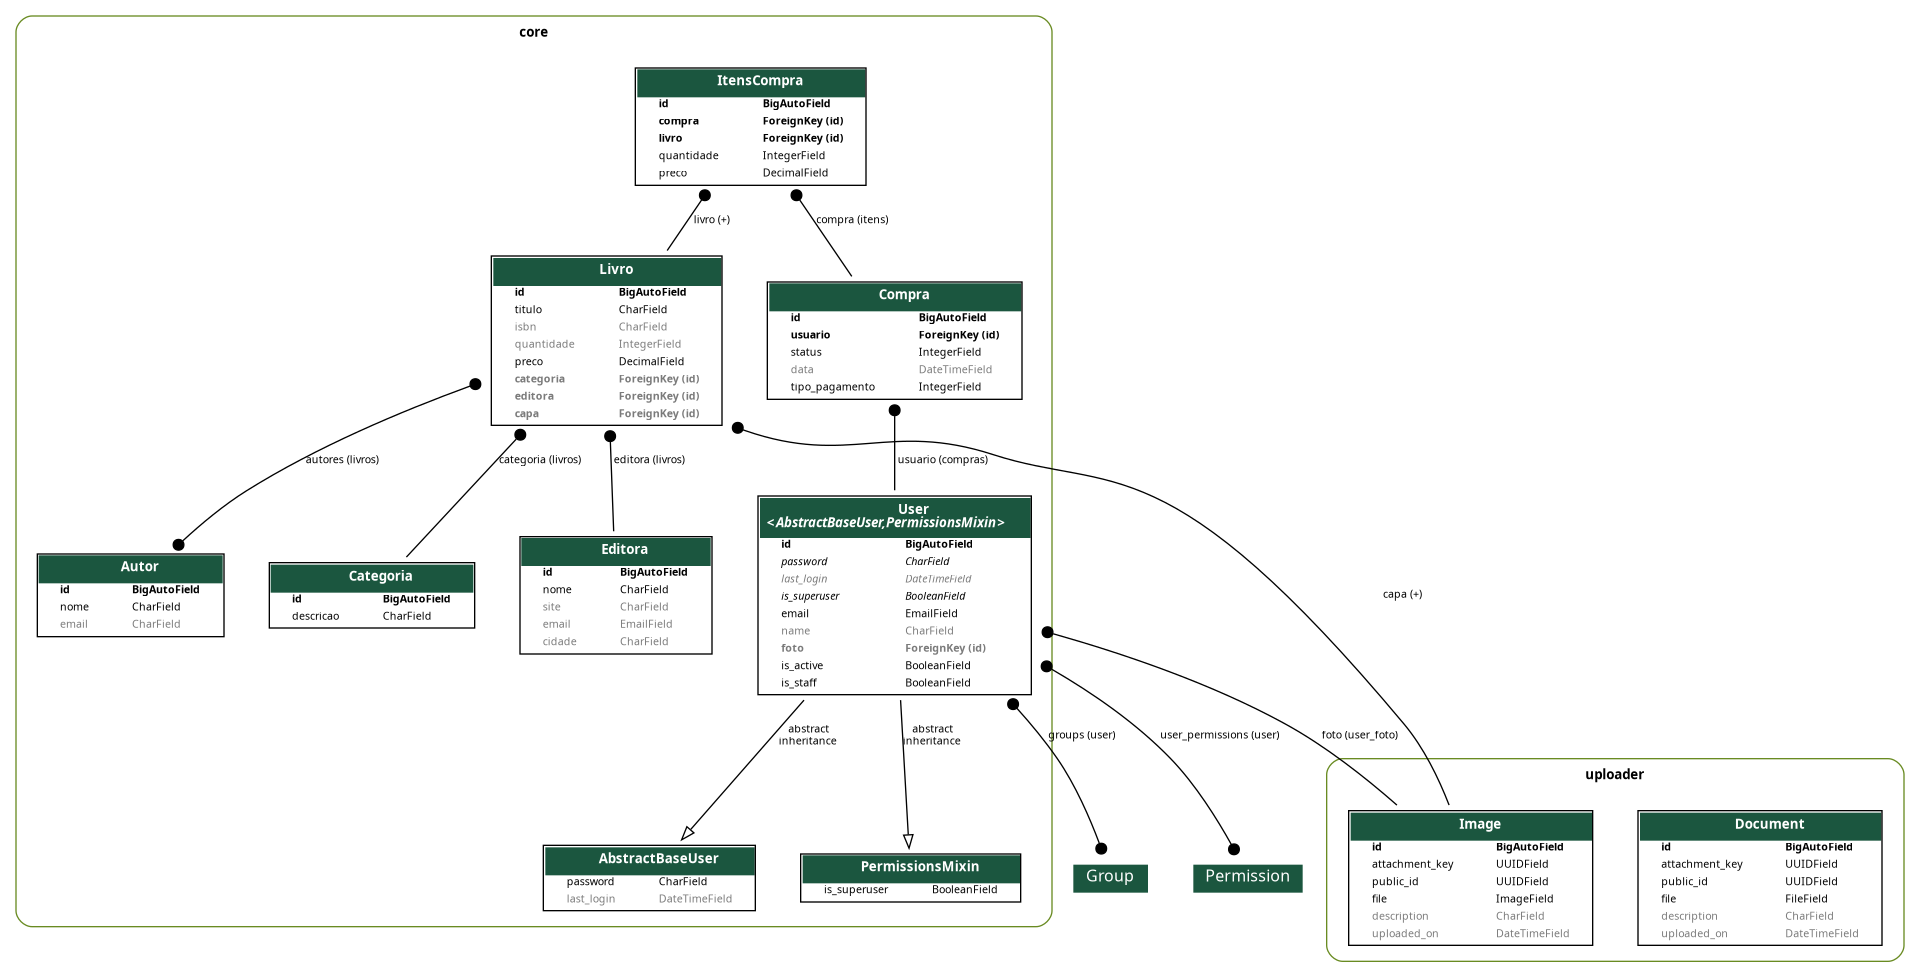
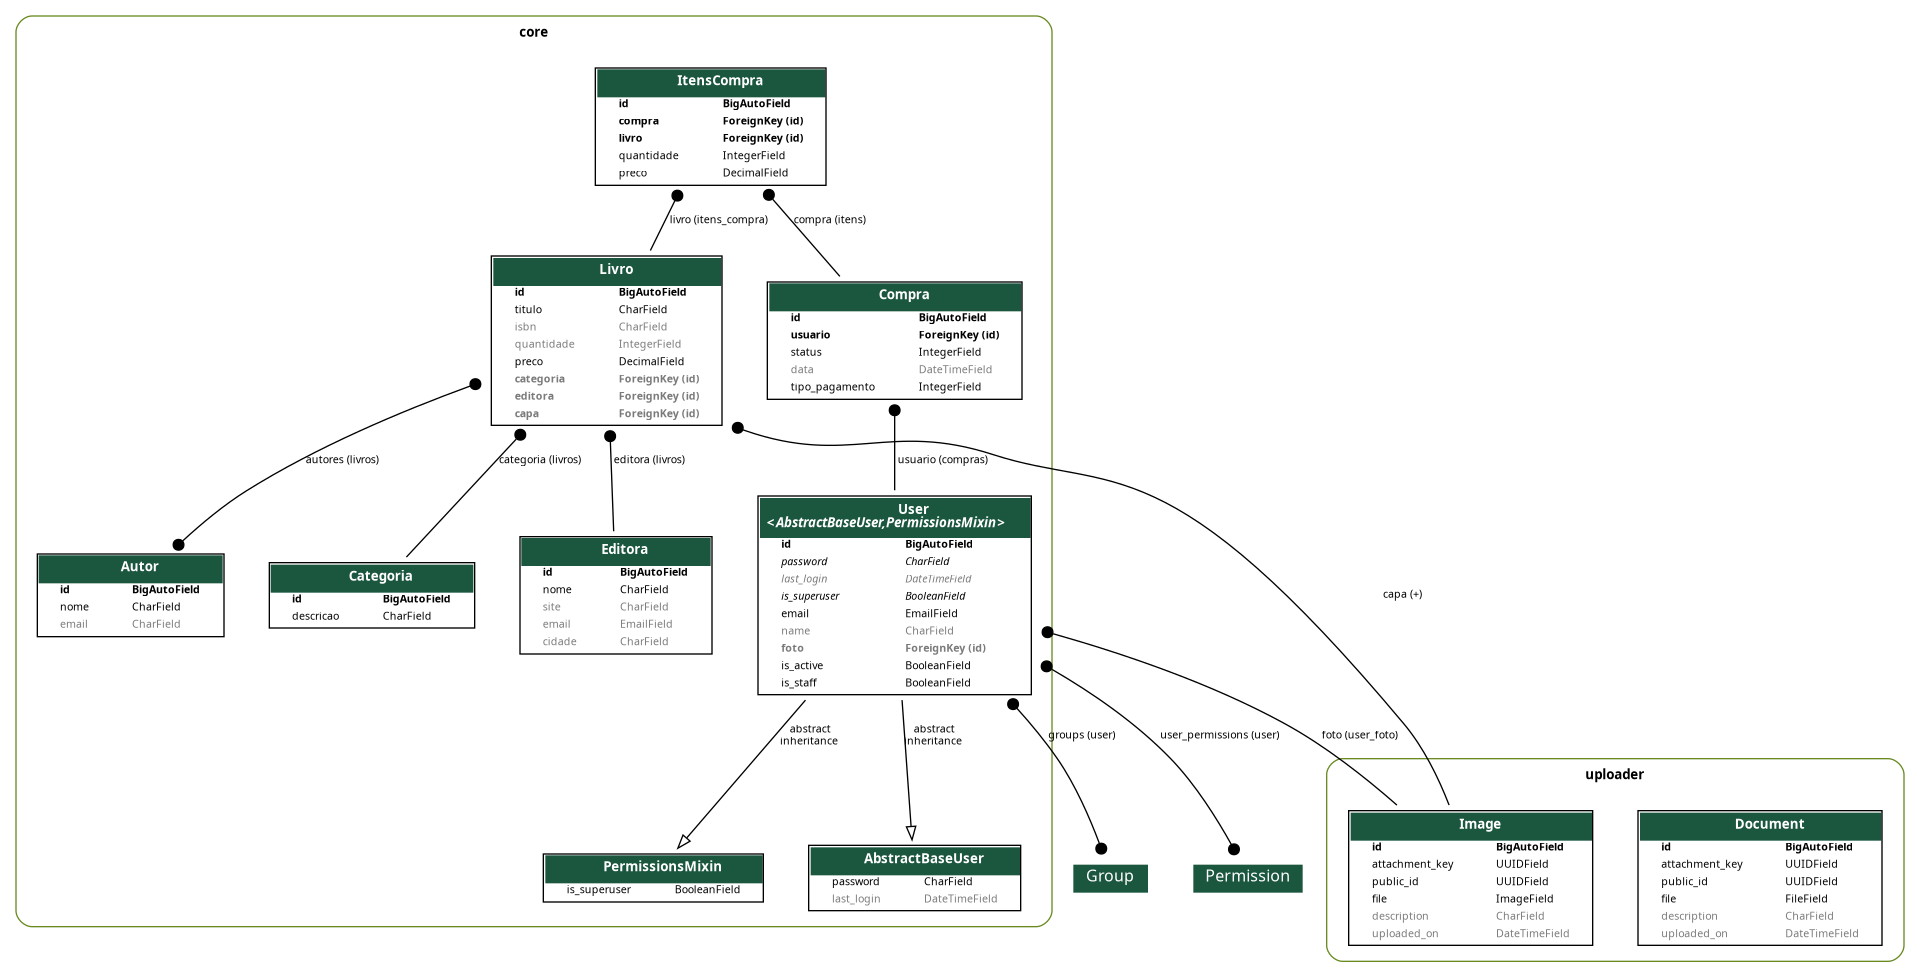
feat: listando livros com mais de 10 cópias vendidas

diff --git a/core/views/livro.py b/core/views/livro.py
@@ -1,16 +1,20 @@
+from django.db.models import Q, Sum
+from drf_spectacular.utils import extend_schema
 from rest_framework import status
 from rest_framework.decorators import action
 from rest_framework.response import Response
 from rest_framework.viewsets import ModelViewSet
-from drf_spectacular.utils import extend_schema
 
 from core.models import Livro
+from core.models.compra import Compra
 from core.serializers import (
     LivroAlterarPrecoSerializer,
     LivroListSerializer,
+    LivroMaisVendidoSerializer,
     LivroRetrieveSerializer,
     LivroSerializer,
 )
+
 
 class LivroViewSet(ModelViewSet):
     queryset = Livro.objects.all()
@@ -22,13 +26,6 @@ class LivroViewSet(ModelViewSet):
         elif self.action == 'retrieve':
             return LivroRetrieveSerializer
         return LivroSerializer
-
-    @extend_schema(
-        request=LivroAlterarPrecoSerializer,
-        responses={200: None},
-        description="Altera o preço de um livro específico.",
-        summary="Alterar preço do livro",
-    )
 
     @action(detail=True, methods=['patch'])
     def alterar_preco(self, request, pk=None):
@@ -43,3 +40,31 @@ class LivroViewSet(ModelViewSet):
         return Response(
             {'detail': f'Preço do livro "{livro.titulo}" atualizado para {livro.preco}.'}, status=status.HTTP_200_OK
         )
+
+    @extend_schema(
+        summary='Lista os livros mais vendidos',
+        description='Retorna os livros que venderam mais de 10 unidades.',
+        responses={200: LivroMaisVendidoSerializer(many=True)},
+    )
+    @action(detail=False, methods=['get'])
+    def mais_vendidos(self, request):
+        quantidade_minima_vendidos = 100
+        livros = (
+            Livro.objects
+            .annotate(
+                total_vendidos=Sum(
+                    'itens_compra__quantidade', filter=Q(itens_compra__compra__status=Compra.StatusCompra.FINALIZADO)
+                )
+            )
+            .filter(total_vendidos__gt=quantidade_minima_vendidos)
+            .order_by('-total_vendidos')
+        )
+
+        serializer = LivroMaisVendidoSerializer(livros, many=True)
+
+        if not serializer.data:
+            return Response(
+                {'detail': f"Nenhum livro excedeu {quantidade_minima_vendidos} vendas."}, status=status.HTTP_200_OK
+            )
+
+        return Response(serializer.data, status=status.HTTP_200_OK)

diff --git a/core/models/compra.py b/core/models/compra.py
@@ -21,7 +21,7 @@ class Compra(models.Model):
         OUTRO = 7, 'Outro'
 
     usuario = models.ForeignKey(User, on_delete=models.PROTECT, related_name='compras')
-    status = models.IntegerField(choices=StatusCompra.choices,  default=StatusCompra.CARRINHO)
+    status = models.IntegerField(choices=StatusCompra.choices, default=StatusCompra.CARRINHO)
     data = models.DateTimeField(auto_now_add=True)
     tipo_pagamento = models.IntegerField(
         choices=TipoPagamento.choices,
@@ -40,6 +40,6 @@ class Compra(models.Model):
 
 class ItensCompra(models.Model):
     compra = models.ForeignKey(Compra, on_delete=models.CASCADE, related_name='itens')
-    livro = models.ForeignKey(Livro, on_delete=models.PROTECT, related_name='+')
+    livro = models.ForeignKey(Livro, on_delete=models.PROTECT, related_name='itens_compra')
     quantidade = models.IntegerField(default=1)
     preco = models.DecimalField(max_digits=7, decimal_places=2, default=0)

diff --git a/core/serializers/livro.py b/core/serializers/livro.py
@@ -1,5 +1,6 @@
 from rest_framework.serializers import (
     DecimalField,
+    IntegerField,
     ModelSerializer,
     Serializer,
     SlugRelatedField,
@@ -40,6 +41,7 @@ class LivroSerializer(ModelSerializer):
         model = Livro
         fields = '__all__'
 
+
 class LivroAlterarPrecoSerializer(Serializer):
     preco = DecimalField(max_digits=7, decimal_places=2)
 
@@ -48,3 +50,11 @@ class LivroAlterarPrecoSerializer(Serializer):
         if preco <= 0:
             raise ValidationError('O preço deve ser um valor positivo.')
         return preco
+
+
+class LivroMaisVendidoSerializer(ModelSerializer):
+    total_vendidos = IntegerField()
+
+    class Meta:
+        model = Livro
+        fields = ('id', 'titulo', 'total_vendidos')

diff --git a/core/migrations/0016_alter_itenscompra_livro.py b/core/migrations/0016_alter_itenscompra_livro.py
@@ -1,0 +1,19 @@
+# Generated by Django 5.2.13 on 2026-10-16 13:11
+
+import django.db.models.deletion
+from django.db import migrations, models
+
+
+class Migration(migrations.Migration):
+
+    dependencies = [
+        ('core', '0015_compra_tipo_pagamento'),
+    ]
+
+    operations = [
+        migrations.AlterField(
+            model_name='itenscompra',
+            name='livro',
+            field=models.ForeignKey(on_delete=django.db.models.deletion.PROTECT, related_name='itens_compra', to='core.livro'),
+        ),
+    ]

diff --git a/core/serializers/compra.py b/core/serializers/compra.py
@@ -104,7 +104,6 @@ class CompraSerializer(ModelSerializer):
     data = DateTimeField(read_only=True)
     tipo_pagamento = CharField(source='get_tipo_pagamento_display', read_only=True) # novo campo
 
-
     class Meta:
         model = Compra
         fields = ('id', 'usuario', 'status', 'total', 'tipo_pagamento', 'data', 'itens')

diff --git a/core/serializers/__init__.py b/core/serializers/__init__.py
@@ -12,6 +12,7 @@ from .editora import EditoraSerializer
 from .livro import (
     LivroAlterarPrecoSerializer,
     LivroListSerializer,
+    LivroMaisVendidoSerializer,
     LivroRetrieveSerializer,
     LivroSerializer,
 )
